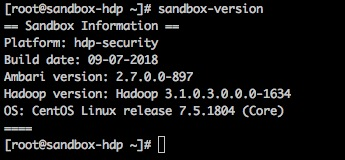
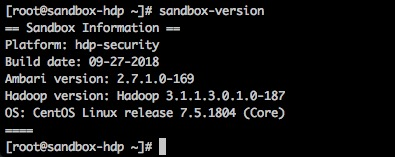
Minor Changes for HDP 3.0.1

Changed region(s): [[0.0, 0.0, 0.8406, 0.7643], [0.0, 0.7898, 0.4928, 1.0]]

diff --git a/tutorials/hdp/learning-the-ropes-of-the-hortonworks-sandbox/tutorial.md b/tutorials/hdp/learning-the-ropes-of-the-hortonworks-sandbox/tutorial.md
@@ -25,7 +25,7 @@ Let's begin our Hadoop journey...
 
 ## Prerequisites
 
-- Downloaded and Installed [Hortonworks Sandbox](https://hortonworks.com/tutorial/sandbox-deployment-and-install-guide/)
+- Downloaded and deployed [Hortonworks Data Platform (HDP)](https://hortonworks.com/tutorial/sandbox-deployment-and-install-guide/) Sandbox
 
 ## Outline
 
@@ -40,40 +40,11 @@ Let's begin our Hadoop journey...
   - [Sandbox Version](#sandbox-version)
   - [Admin Password Reset](#admin-password-reset)
 - [Appendix B: Troubleshoot](#appendix-b-troubleshoot)
+- [Appendix C: Troubleshoot](#appendix-b-troubleshoot)
 
 ## Environment setup
 
 This is the administrative section to get started with the Hortonworks Sandbox environment. Generally, this will only be done once.
-
-### Determine Network Adapter of Your Sandbox
-
-Once the Sandbox VM is installed, it attaches to a virtual network. There are 8 different network modes, but the default network your sandbox will attach to is NAT. We will cover relevant networks for our tutorial use cases: NAT and Bridged Adapter.
-
-**Network Address Translation (NAT)**
-
-By default, the VM attaches to Network Address Translation (NAT) network mode. The guest's IP address by default translates over to the host's IP address. NAT allows for the guest system to connect to external devices on external networks, but external devices cannot access the guest system. Alternatively, VirtualBox can make selected services on the guest reachable to the outside world by port forwarding. VirtualBox listens to certain ports on the host, then resends packets that arrive at those ports to the guest on the same port or different port.
-
-How we are forwarding all incoming traffic from a specific host interface to the guest in our sandbox is by specifying an IP of that host like the following:
-
-~~~bash
-VBoxManage modifyvm "Hortonworks Sandbox HDP 3.0.0" --natpf1 "Sandbox Splash Page,tcp,127.0.0.1,1080,,1080"
-.
-.
-.
-VBoxManage modifyvm "Hortonworks Sandbox HDP 3.0.0" --natpf1 "Sandbox Host SSH,tcp,127.0.0.1,2122,,22"
-~~~
-
-You can find the set network by opening the VM **settings** and then select the **network** tab.
-
-**Bridged Networking**
-
-In this mode, the guest receives direct access to the network, which the host has been connected. The router assigns an IP address to the guest. On that network, instead of there being just the host IP address visible, now the guest IP address is visible too. Thus, external devices, such as MiNiFi running on a Raspberry Pi, are able to connect to the guest via it's IP address.
-
-When would you need this mode? It is needed for Connected Data Architecture(CDA). To configure this mode, first power down your guest vm, click settings, switch to the network tab and change the **attach to** network to be **Bridged Adapter**.
-
-![Bridged Adapter](assets/bridged_adapter.jpg)
-
-> WARNING: first make sure your computer is connected to a router, else this feature will not work cause there is no router to assign an IP address to the guest vm.
 
 ### Determine IP Address of Your Sandbox
 
@@ -89,11 +60,11 @@ If you're using **VirtualBox** or **VMWare**, you can confirm the IP address by 
 
 ![Host Address of Sandbox Environment](assets/guest_vm_NAT_mode_hdp265_83.png)
 
-> **Note:** Guest VM Welcome Window for NAT Sandbox
+<!--- >> **Note:** Guest VM Welcome Window for NAT Sandbox --->
 
 ![Host Address of Sandbox Environment](assets/guest_vm_BRIDGED_mode_welcome_screen.jpg)
 
-> **Note:** Guest VM Welcome Window for BRIDGED Sandbox
+<!--- >> **Note:** Guest VM Welcome Window for BRIDGED Sandbox --->
 
 > **Note:** If you're using Azure, your IP address is located on the dashboard, refer to [**Set a Static IP**](https://hortonworks.com/tutorial/sandbox-deployment-and-install-guide/section/4/#set-a-static-ip)
 
@@ -335,3 +306,34 @@ you change your Ambari admin password to be unique.
 At times you may encounter a job, query or request that just seems to run forever and does not complete. It may be because it's in the **ACCEPTED** state. A good place to begin looking is in the [ResourceManager](http://sandbox-hdp.hortonworks.com:8088/). If you know a job has completed, but the Resource Manager still thinks it's running - kill it!
 
 ![rm-kill](assets/rm-kill.jpg)
+
+
+## Appendix C: Determine Network Adapter of Your VirtualBox Sandbox
+
+Once the Sandbox VM is installed, it attaches to a virtual network. There are 8 different network modes, but the default network your sandbox will attach to is NAT. We will cover relevant networks for our tutorial use cases: NAT and Bridged Adapter.
+
+**Network Address Translation (NAT)**
+
+By default, the VM attaches to Network Address Translation (NAT) network mode. The guest's IP address by default translates over to the host's IP address. NAT allows for the guest system to connect to external devices on external networks, but external devices cannot access the guest system. Alternatively, VirtualBox can make selected services on the guest reachable to the outside world by port forwarding. VirtualBox listens to certain ports on the host, then re-sends packets that arrive at those ports to the guest on the same port or different port.
+
+How we are forwarding all incoming traffic from a specific host interface to the guest in our sandbox is by specifying an IP of that host like the following:
+
+~~~bash
+VBoxManage modifyvm "Hortonworks Sandbox HDP 3.0.1" --natpf1 "Sandbox Splash Page,tcp,127.0.0.1,1080,,1080"
+.
+.
+.
+VBoxManage modifyvm "Hortonworks Sandbox HDP 3.0.1" --natpf1 "Sandbox Host SSH,tcp,127.0.0.1,2122,,22"
+~~~
+
+You can find the set network by opening the VM **settings** and then select the **network** tab.
+
+**Bridged Networking**
+
+In this mode, the guest receives direct access to the network, which the host has been connected. The router assigns an IP address to the guest. On that network, instead of there being just the host IP address visible, now the guest IP address is visible too. Thus, external devices, such as MiNiFi running on a Raspberry Pi, are able to connect to the guest via it's IP address.
+
+When would you need this mode? It is needed for Connected Data Architecture(CDA). To configure this mode, first power down your guest vm, click settings, switch to the network tab and change the **attach to** network to be **Bridged Adapter**.
+
+![Bridged Adapter](assets/bridged_adapter.jpg)
+
+> WARNING: First make sure your computer is connected to a router, else this feature will not work cause there is no router to assign an IP address to the guest vm.

diff --git a/tutorials/hdp/loading-and-querying-data-with-hadoop/tutorial.md b/tutorials/hdp/loading-and-querying-data-with-hadoop/tutorial.md
@@ -25,8 +25,8 @@ We will describe how to ingest data into HDFS, to create tables and perform quer
 
 ## Prerequisites
 
-- Downloaded and Installed latest [Hortonworks Data Platform (HDP) Sandbox](https://hortonworks.com/downloads/#sandbox)
-- Completed [Learning the Ropes of the HDP Sandbox](https://hortonworks.com/tutorial/learning-the-ropes-of-the-hortonworks-sandbox/) tutorial
+- Downloaded and deployed the [Hortonworks Data Platform (HDP)](https://hortonworks.com/downloads/#sandbox) Sandbox
+- [Learning the Ropes of the HDP Sandbox](https://hortonworks.com/tutorial/learning-the-ropes-of-the-hortonworks-sandbox/) tutorial
 
 ## Outline
 
@@ -52,13 +52,13 @@ users.tsv
 
 ## Create Hive Tables with Data Analytics Studio
 
-Logon to Ambari user/password: maria_dev/maria_dev.
+Logon to Ambari user/password: **maria_dev/maria_dev**.
 
 1\. Select the **Data Analytics Studio** (DAS) service.
 
 2\. Navigate to the **Data Analytics Studio UI** located on the right hand side of the Ambari page.
 
-- Alternatively, you can access the DAS UI directly by using port 38000:[sandbox.hdp.hortonworks.com:30800](http://sandbox-hdp.hortonworks.com:30800/)
+- Alternatively, you can access the DAS UI directly by using port 30800:[sandbox.hdp.hortonworks.com:30800](http://sandbox-hdp.hortonworks.com:30800/)
 
 ![das-ui-navigate](assets/das-ui-navigate.jpg)
 

diff --git a/tutorials/hdp/setting-up-a-spark-development-environment-with-java/tutorial.md b/tutorials/hdp/setting-up-a-spark-development-environment-with-java/tutorial.md
@@ -23,7 +23,7 @@ This tutorial will teach you how to set up a full development environment for de
 
 ## Prerequisites
 
-- Installed and deployed [Hortonworks Data Platform (HDP) Sandbox](https://hortonworks.com/downloads/#sandbox)
+- Installed and deployed the [Hortonworks Data Platform (HDP)](https://hortonworks.com/downloads/#sandbox) Sandbox
 - [Learning the Ropes of HDP Sandbox](https://hortonworks.com/tutorial/learning-the-ropes-of-the-hortonworks-sandbox/)
 - Installed [IntelliJ IDEA](https://www.jetbrains.com/idea/)
 - Installed [Maven](https://maven.apache.org/install.html) dependency manager
@@ -39,7 +39,6 @@ This tutorial will teach you how to set up a full development environment for de
 - [Live Debugging](#live-debugging)
 - [Summary](#summary)
 - [Further Reading](#further-reading)
-
 
 ## Creating a new IntelliJ Project
 

diff --git a/tutorials/hdp/setting-up-a-spark-development-environment-with-python/tutorial.md b/tutorials/hdp/setting-up-a-spark-development-environment-with-python/tutorial.md
@@ -23,8 +23,8 @@ We'll be using PyCharm Community Edition as our IDE. PyCharm Professional editio
 
 ## Prerequisites
 
+- Installed and deployed the [Hortonworks Data Platform (HDP)](https://hortonworks.com/downloads/#sandbox) Sandbox
 - [Learning the Ropes of HDP Sandbox](https://hortonworks.com/tutorial/learning-the-ropes-of-the-hortonworks-sandbox/)
-- Installed and deployed the latest [Hortonworks Data Platform (HDP) Sandbox](https://hortonworks.com/downloads/#sandbox)
 - Installed [Python](https://www.python.org/)
 - Installed [PyCharm](https://www.jetbrains.com/pycharm/)
 

diff --git a/tutorials/hdp/setting-up-a-spark-development-environment-with-scala/tutorial.md b/tutorials/hdp/setting-up-a-spark-development-environment-with-scala/tutorial.md
@@ -122,7 +122,7 @@ To upload to HDFS:
 
 2\. Navigate to sandbox-hdp.hortonworks.com:8080
 
-3\. Login (default username/password is maria_dev/maria_dev)
+3\. Login (default username/password is **maria_dev/maria_dev**)
 
 4\. Log into Amabari Manager
 
